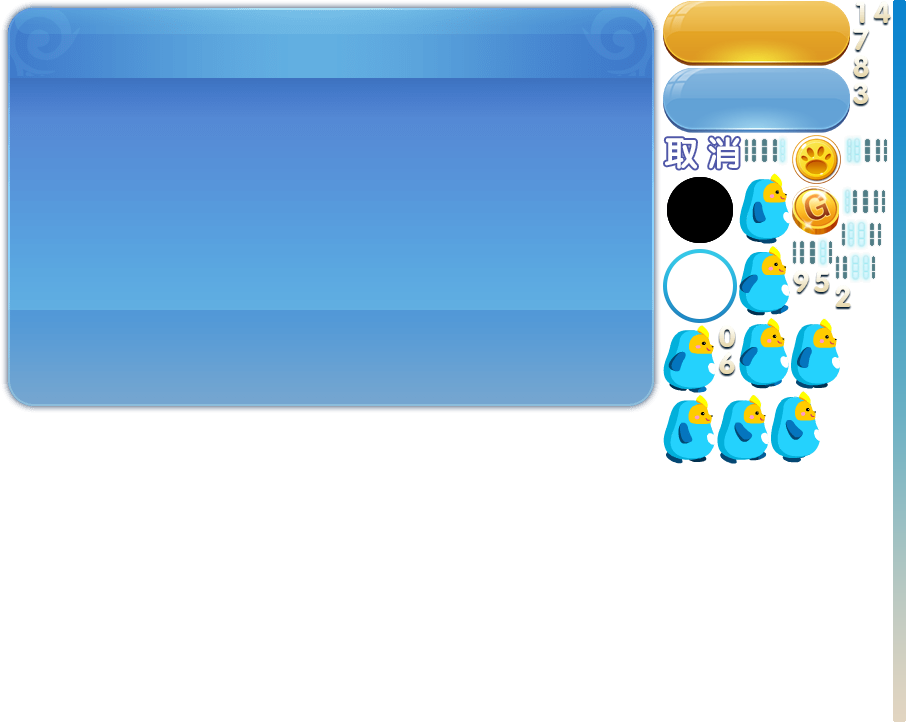
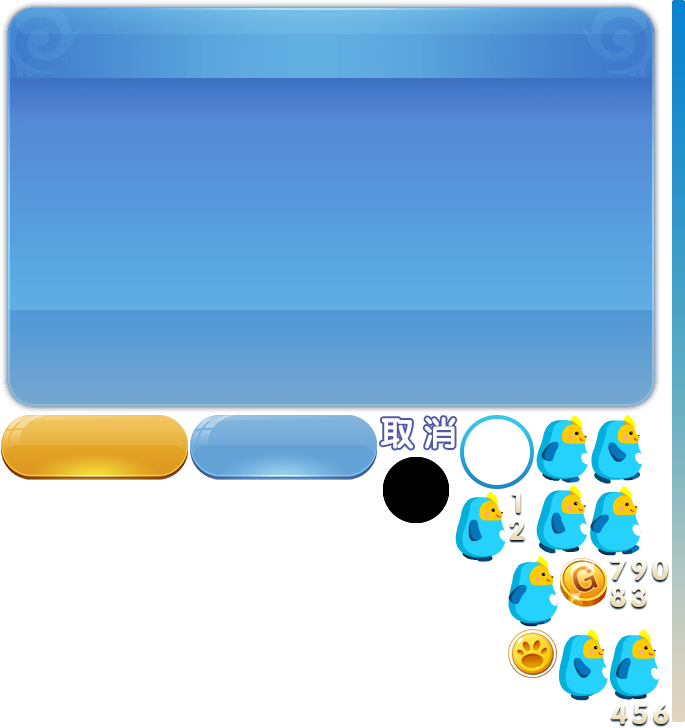
完善排行榜

Changed region(s): [[0.0, 0.0, 1.0, 1.0], [0.4599, 0.0, 0.4905, 0.0305]]

diff --git a/Client/bin/js/UI/UIRanking.js b/Client/bin/js/UI/UIRanking.js
@@ -8,6 +8,7 @@ define(["require", "exports", "../Global", "../Net/ProtoHelper", "../Libs/protos
         }
         onInit() {
             this.contentPane = fairygui.UIPackage.createObject("ranking", "Main").asCom;
+            this.modal = true;
             this._list = this.contentPane.getChild("n13").asList;
         }
         onShown() {
@@ -16,7 +17,7 @@ define(["require", "exports", "../Global", "../Net/ProtoHelper", "../Libs/protos
             const request = ProtoHelper_1.ProtoCreator.Q_GC2CS_QueryRanking();
             request.sortType = protos_1.Protos.GC2CS_QueryRanking.SortType.Rank;
             request.from = 0;
-            request.count = 10;
+            request.count = 100;
             Global_1.Global.connector.SendToCS(protos_1.Protos.GC2CS_QueryRanking, request, resp => {
                 this.closeModalWait();
                 const data = resp;
@@ -24,7 +25,7 @@ define(["require", "exports", "../Global", "../Net/ProtoHelper", "../Libs/protos
                 for (let i = 0; i < count; ++i) {
                     const rankingInfo = data.rankingInfos[i];
                     const item = this._list.addItemFromPool().asCom;
-                    item.getChild("n29").asTextField.text = "" + i;
+                    item.getChild("n29").asTextField.text = "" + (i + 1);
                     const loader = item.getChild("n19").asCom.getChild("loader").asLoader;
                     loader.url = rankingInfo.avatar;
                     item.getChild("n25").asTextField.text = rankingInfo.name;

diff --git a/wx/js/UI/UIRanking.js b/wx/js/UI/UIRanking.js
@@ -8,6 +8,7 @@ export class UIRanking extends fairygui.Window {
     }
     onInit() {
         this.contentPane = fairygui.UIPackage.createObject("ranking", "Main").asCom;
+        this.modal = true;
         this._list = this.contentPane.getChild("n13").asList;
     }
     onShown() {
@@ -16,7 +17,7 @@ export class UIRanking extends fairygui.Window {
         const request = ProtoCreator.Q_GC2CS_QueryRanking();
         request.sortType = Protos.GC2CS_QueryRanking.SortType.Rank;
         request.from = 0;
-        request.count = 10;
+        request.count = 100;
         Global.connector.SendToCS(Protos.GC2CS_QueryRanking, request, resp => {
             this.closeModalWait();
             const data = resp;
@@ -24,7 +25,7 @@ export class UIRanking extends fairygui.Window {
             for (let i = 0; i < count; ++i) {
                 const rankingInfo = data.rankingInfos[i];
                 const item = this._list.addItemFromPool().asCom;
-                item.getChild("n29").asTextField.text = "" + i;
+                item.getChild("n29").asTextField.text = "" + (i + 1);
                 const loader = item.getChild("n19").asCom.getChild("loader").asLoader;
                 loader.url = rankingInfo.avatar;
                 item.getChild("n25").asTextField.text = rankingInfo.name;

diff --git a/Client/src/UI/UIRanking.ts b/Client/src/UI/UIRanking.ts
@@ -7,12 +7,12 @@ export class UIRanking extends fairygui.Window {
 
 	constructor() {
 		super();
-
 		fairygui.UIPackage.addPackage("res/ui/ranking");
 	}
 
 	protected onInit(): void {
 		this.contentPane = fairygui.UIPackage.createObject("ranking", "Main").asCom;
+		this.modal = true;
 		this._list = this.contentPane.getChild("n13").asList;
 	}
 
@@ -22,7 +22,7 @@ export class UIRanking extends fairygui.Window {
 		const request = ProtoCreator.Q_GC2CS_QueryRanking();
 		request.sortType = Protos.GC2CS_QueryRanking.SortType.Rank;
 		request.from = 0;
-		request.count = 10;
+		request.count = 100;
 		Global.connector.SendToCS(Protos.GC2CS_QueryRanking, request, resp => {
 			this.closeModalWait();
 			const data = <Protos.CS2GC_QueryRankingRet>resp;
@@ -30,7 +30,7 @@ export class UIRanking extends fairygui.Window {
 			for (let i = 0; i < count; ++i) {
 				const rankingInfo = data.rankingInfos[i];
 				const item = this._list.addItemFromPool().asCom;
-				item.getChild("n29").asTextField.text = "" + i;
+				item.getChild("n29").asTextField.text = "" + (i + 1);
 				const loader = item.getChild("n19").asCom.getChild("loader").asLoader;
 				loader.url = rankingInfo.avatar;
 				item.getChild("n25").asTextField.text = rankingInfo.name;
